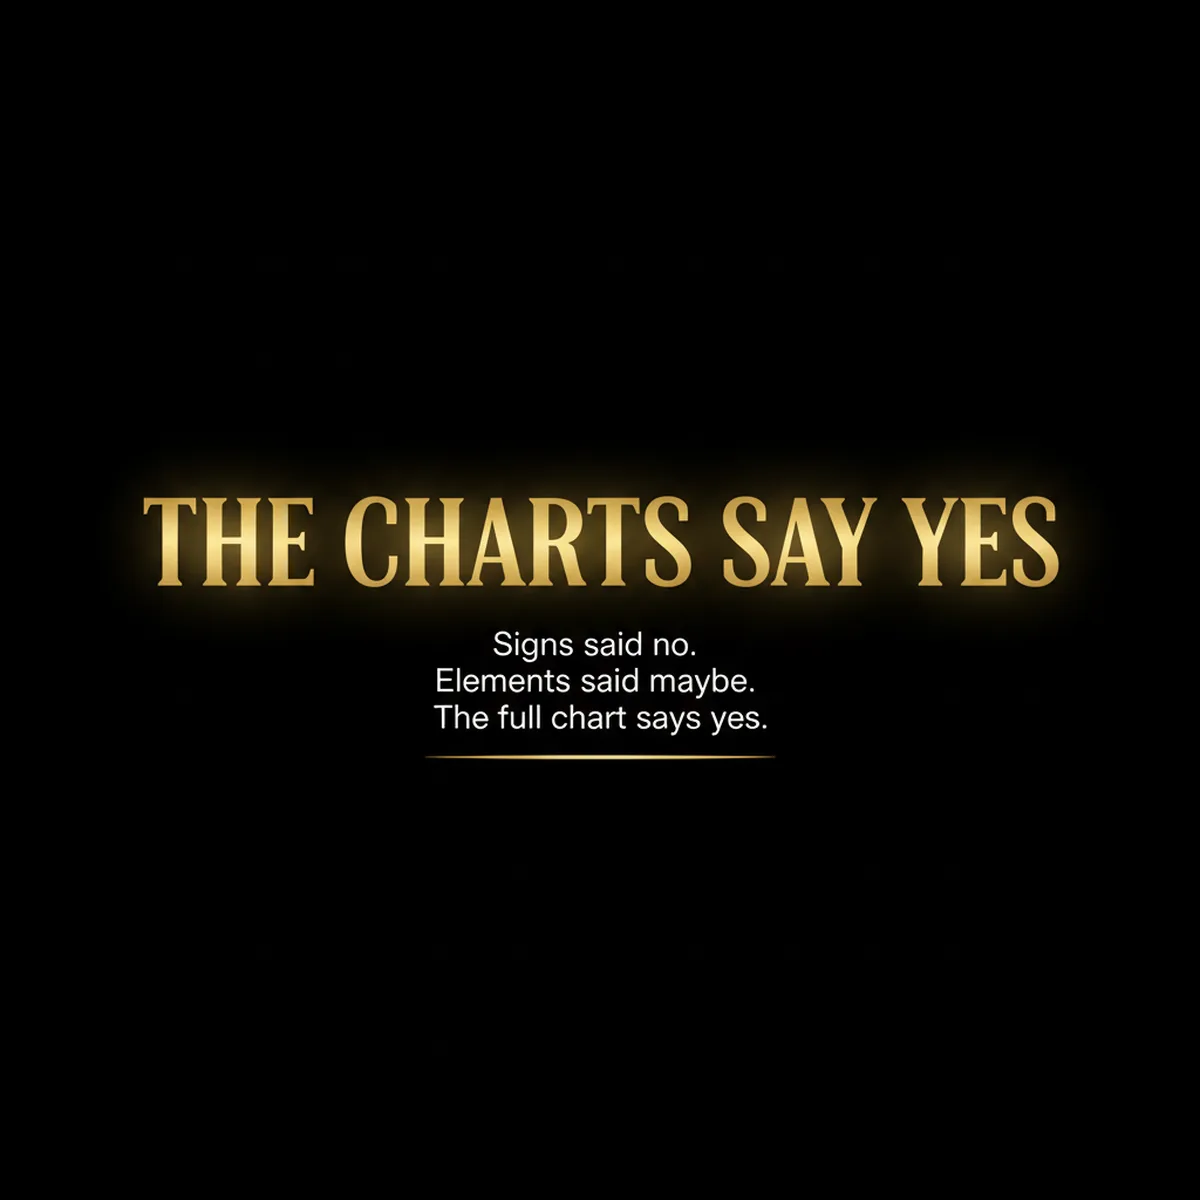
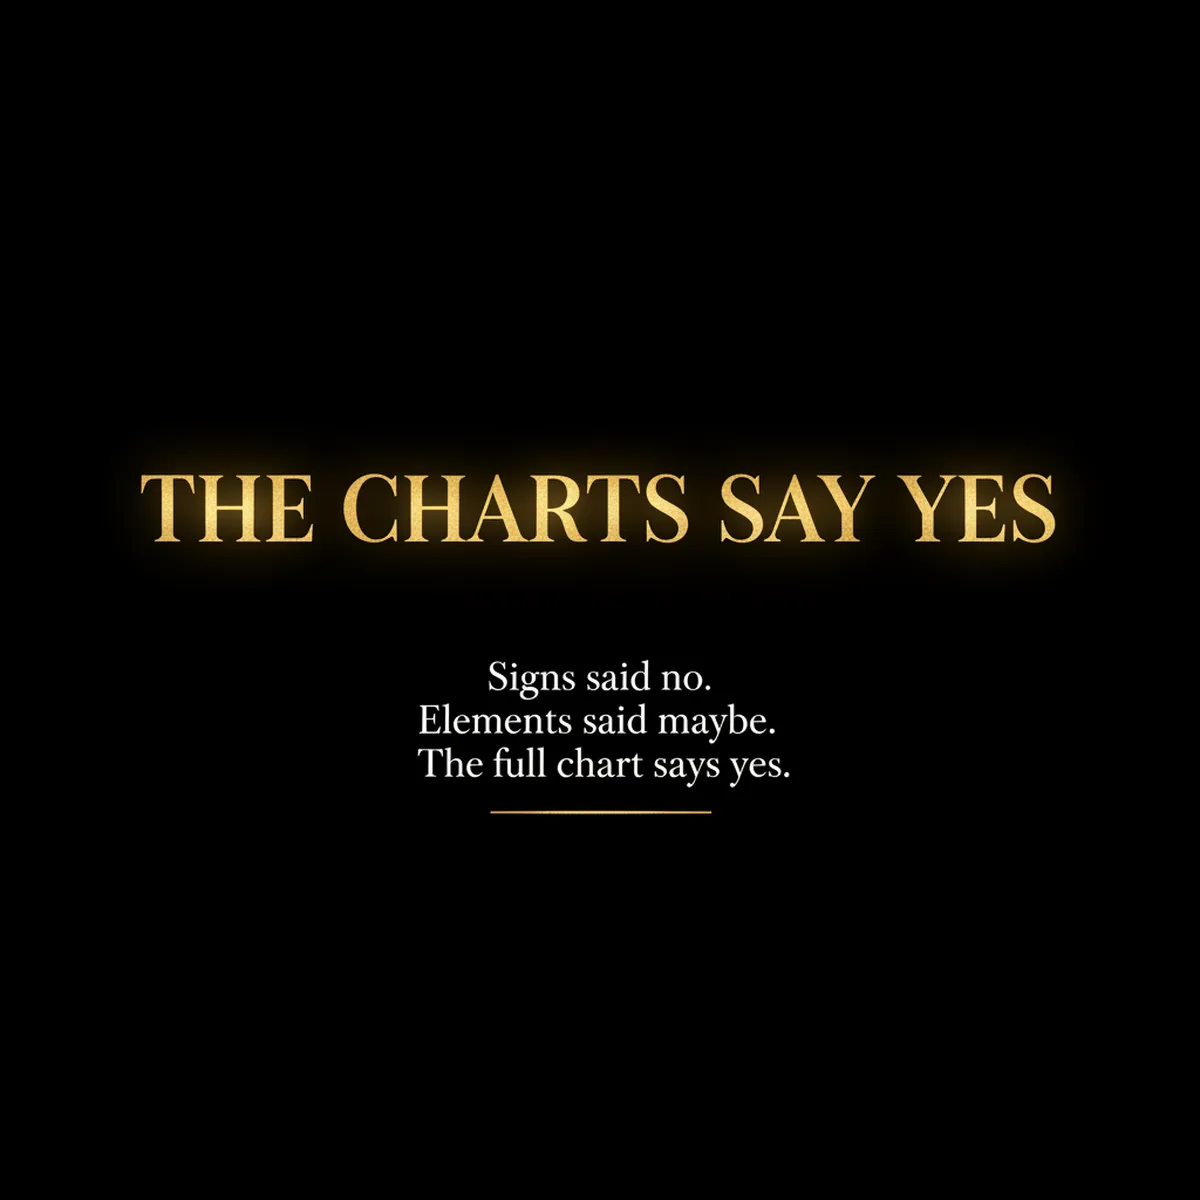
blog: redesign post layout and replace images
- Remove hero images from all 4 posts (text-forward layout like AIO)
- Add breadcrumb navigation (Blog / Category) to all posts
- Narrow body to 720px max-width for better readability
- Add breadcrumb CSS styles with gold link color
- Replace generic AI images on luck and love posts
- Replace 1:1 Swift-Kelce OG image with proper version
- Remove unused next/image imports
- Images kept as OG/social cards only

Changed region(s): [[0.0925, 0.37, 0.8942, 0.6783]]

diff --git a/website/pages/blog/posts/who-has-the-most-luck-in-the-fire-horse-year.jsx b/website/pages/blog/posts/who-has-the-most-luck-in-the-fire-horse-year.jsx
@@ -1,5 +1,4 @@
 import Head from 'next/head';
-import Image from 'next/image';
 import Link from 'next/link';
 import Nav from '../../../components/Nav';
 import Footer from '../../../components/Footer';
@@ -24,22 +23,14 @@ export default function WhoHasTheMostLuck() {
 
         <header className={styles.header}>
           <div className="container">
+            <nav className={styles.breadcrumb}>
+              <Link href="/blog">Blog</Link> <span>/</span> <span>Year of the Fire Horse</span>
+            </nav>
             <span className="post-category">Year of the Fire Horse</span>
             <h1>Who Has the Most Luck in 2026 — Fire Horse Year? (And Why That's the Wrong Question)</h1>
             <p className="post-meta">April 5, 2026 · Bill Hajdu · 5 min read</p>
           </div>
         </header>
-
-        <figure className={styles.hero}>
-          <Image
-            src="/images/blog/who-has-the-most-luck-in-the-fire-horse-year.webp"
-            alt="Mahjong tiles arranged around a tarot card"
-            width={960}
-            height={540}
-            style={{ objectFit: 'cover', width: '100%' }}
-            priority
-          />
-        </figure>
 
         <div className="container">
           <div className={styles.body}>

diff --git a/website/pages/blog/posts/blood-moon-rising-in-the-year-of-the-fire-horse.jsx b/website/pages/blog/posts/blood-moon-rising-in-the-year-of-the-fire-horse.jsx
@@ -1,5 +1,4 @@
 import Head from 'next/head';
-import Image from 'next/image';
 import Link from 'next/link';
 import Nav from '../../../components/Nav';
 import Footer from '../../../components/Footer';
@@ -24,22 +23,14 @@ export default function BloodMoonRising() {
 
         <header className={styles.header}>
           <div className="container">
+            <nav className={styles.breadcrumb}>
+              <Link href="/blog">Blog</Link> <span>/</span> <span>Blood Moon</span>
+            </nav>
             <span className="post-category">Blood Moon</span>
             <h1>A Once-in-a-Generation Blood Moon Signal Just Landed on the Most Volatile Year in the Chinese Zodiac</h1>
             <p className="post-meta">April 4, 2026 · Bill Hajdu · 5 min read</p>
           </div>
         </header>
-
-        <figure className={styles.hero}>
-          <Image
-            src="/images/blog/blood-moon-rising-in-the-year-of-the-fire-horse.webp"
-            alt="Blood moon rising over the horizon"
-            width={960}
-            height={524}
-            style={{ objectFit: 'cover', width: '100%' }}
-            priority
-          />
-        </figure>
 
         <div className="container">
           <div className={styles.body}>

diff --git a/website/pages/blog/posts/love-in-the-fire-horse-year.jsx b/website/pages/blog/posts/love-in-the-fire-horse-year.jsx
@@ -1,5 +1,4 @@
 import Head from 'next/head';
-import Image from 'next/image';
 import Link from 'next/link';
 import Nav from '../../../components/Nav';
 import Footer from '../../../components/Footer';
@@ -99,22 +98,14 @@ export default function LoveInTheFireHorseYear() {
 
         <header className={styles.header}>
           <div className="container">
+            <nav className={styles.breadcrumb}>
+              <Link href="/blog">Blog</Link> <span>/</span> <span>Year of the Fire Horse</span>
+            </nav>
             <span className="post-category">Year of the Fire Horse</span>
             <h1>Love in the Year of the Fire Horse: What 2026 Means for Your Relationships, Sign by Sign</h1>
             <p className="post-meta">April 6, 2026 · Bill Hajdu · 8 min read</p>
           </div>
         </header>
-
-        <figure className={styles.hero}>
-          <Image
-            src="/images/blog/love-in-the-fire-horse-year.webp"
-            alt="Cards laid out for a love reading"
-            width={740}
-            height={740}
-            style={{ objectFit: 'cover', width: '100%' }}
-            priority
-          />
-        </figure>
 
         <div className="container">
           <div className={styles.body}>

diff --git a/website/pages/blog/posts/swift-kelce-wedding-stars.jsx b/website/pages/blog/posts/swift-kelce-wedding-stars.jsx
@@ -1,5 +1,4 @@
 import Head from 'next/head';
-import Image from 'next/image';
 import Link from 'next/link';
 import Nav from '../../../components/Nav';
 import Footer from '../../../components/Footer';
@@ -43,22 +42,14 @@ export default function SwiftKelceWeddingStars() {
 
         <header className={styles.header}>
           <div className="container">
+            <nav className={styles.breadcrumb}>
+              <Link href="/blog">Blog</Link> <span>/</span> <span>Year of the Fire Horse</span>
+            </nav>
             <span className="post-category">Year of the Fire Horse</span>
             <h1>What the Stars Actually Say About the Swift-Kelce Wedding</h1>
             <p className="post-meta">Apr 13, 2026 · Bill Hajdu · 6 min read</p>
           </div>
         </header>
-
-        <figure className={styles.hero}>
-          <Image
-            src="/images/blog/swift-kelce-wedding-stars.webp"
-            alt="The Charts Say Yes - gold text on black background"
-            width={1200}
-            height={1200}
-            style={{ objectFit: 'cover', width: '100%' }}
-            priority
-          />
-        </figure>
 
         <div className="container">
           <div className={styles.body}>

diff --git a/website/styles/BlogPost.module.css b/website/styles/BlogPost.module.css
@@ -7,19 +7,38 @@
 .header h1 {
   color: var(--warm-cream);
   margin: var(--space-lg) 0 var(--space-md);
-  max-width: 760px;
+  max-width: 720px;
 }
 .header .post-meta { color: rgba(250,248,244,0.6); }
 
-.hero {
+/* ── Breadcrumb ── */
+.breadcrumb {
+  font-family: 'Source Sans 3', sans-serif;
+  font-size: 13px;
+  font-weight: 600;
+  letter-spacing: 0.06em;
+  text-transform: uppercase;
+  margin-bottom: var(--space-md);
+}
+.breadcrumb a {
+  color: var(--celestial-gold);
+  text-decoration: none;
+}
+.breadcrumb a:hover {
+  text-decoration: underline;
+}
+.breadcrumb span {
+  color: rgba(250,248,244,0.4);
+  margin: 0 6px;
+}
+.breadcrumb span:last-child {
+  color: rgba(250,248,244,0.6);
   margin: 0;
-  max-width: 960px;
-  margin: calc(-1 * var(--space-xl)) auto var(--space-3xl);
-  padding: 0 var(--outer-margin);
 }
 
 .body {
-  max-width: 760px;
+  max-width: 720px;
+  padding-top: var(--space-3xl);
 }
 .body p {
   font-size: 19px;
